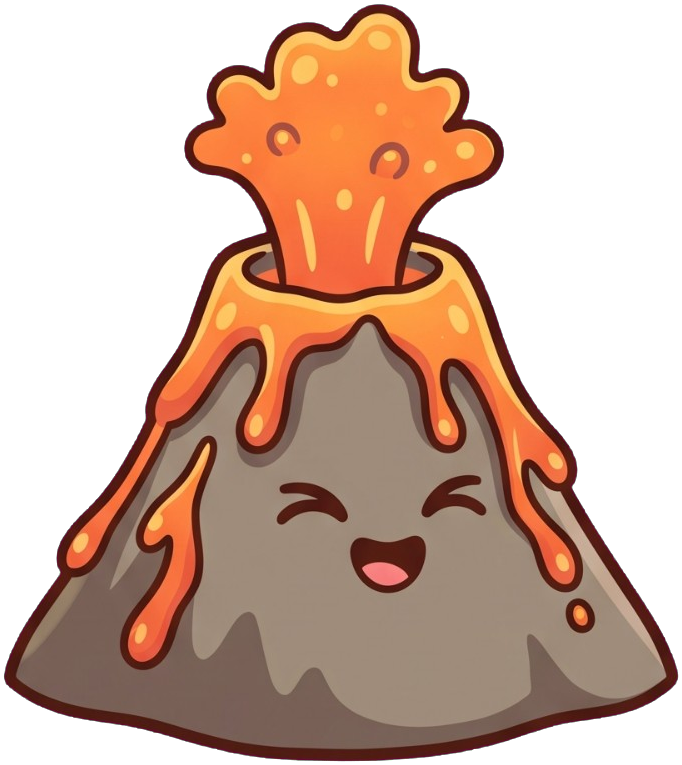
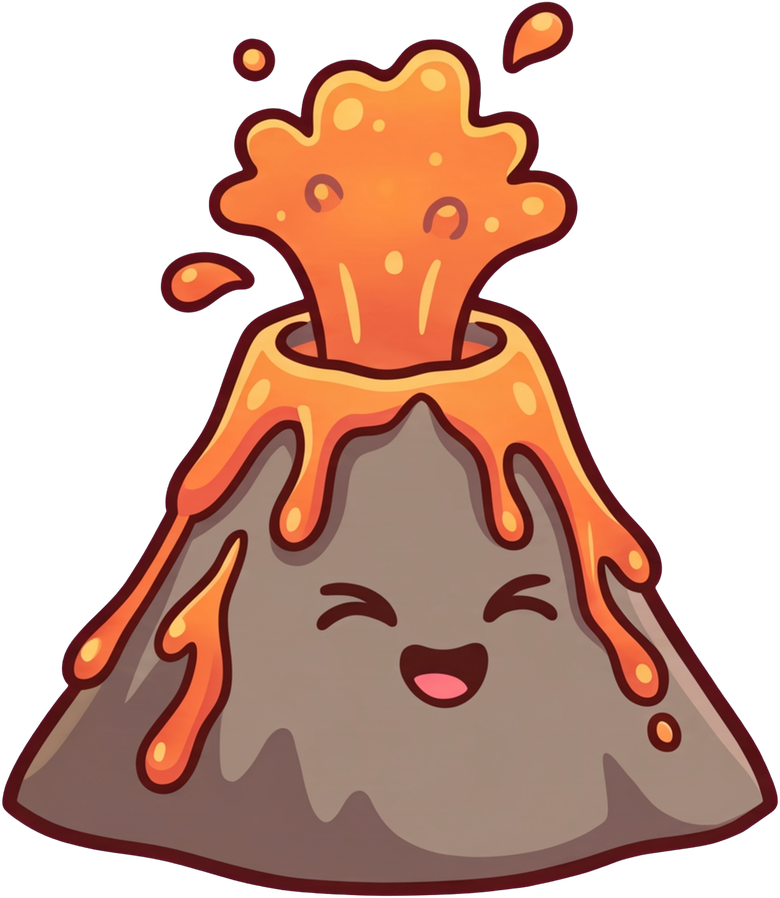
Volcan: new 4K volcano (approved 1K trial, then upscaled with the same design)
game-art: 'essai' (1K trial) and 'upscale' (the approved trial redone at full
resolution, so the design does not change)

diff --git a/.claude/skills/game-art/scripts/art.py b/.claude/skills/game-art/scripts/art.py
@@ -3,6 +3,8 @@
 
     python3 art.py plan                  what to generate, at what size (no API call)
     python3 art.py prompt SHEET          print the prompt (to use by hand in Gemini)
+    python3 art.py essai SHEET           a cheap low-resolution trial (planches/SHEET_essai.png)
+    python3 art.py upscale SHEET         the approved trial redone at full resolution (same design)
     python3 art.py gen SHEET             generate the sheet image (image API)
     python3 art.py animate SHEET         generate a character's video (video API)
     python3 art.py cut SHEET             cut the sheet / video into full-resolution pieces
@@ -262,7 +264,7 @@ def cmd_prompt(project, sheet):
 
 # ---------------------------------------------------------------- API calls
 
-def cmd_gen(project, sheet, yes=False):
+def cmd_gen(project, sheet, yes=False, trial=False):
     import genimage
     a = project.asset(sheet)
     if a["kind"] == "style" and project.reference and project.reference.exists() and not yes:
@@ -274,11 +276,31 @@ def cmd_gen(project, sheet, yes=False):
     refs = [str(project.reference)] if project.reference and project.reference.exists() and a["kind"] != "style" else []
     # extra references for this sheet (e.g. the current image when regenerating it)
     refs += [str(project.root / r) for r in a.get("refs", []) if (project.root / r).exists()]
-    out = project.sheets / f"{sheet}.png"
-    size = best_size(Budget(project.root), p["size"])
+    out = project.sheets / (f"{sheet}_essai.png" if trial else f"{sheet}.png")
+    # trial: smallest size, to check the prompt and the style before paying for
+    # the full resolution (then "upscale" keeps the approved design)
+    size = "1K" if trial else best_size(Budget(project.root), p["size"])
     genimage.generate(str(out), build_prompt(project, a), refs, p["ratio"], size, IMAGE_MODEL,
-                      yes=yes, what=f"{sheet} (planche)", root=project.root)
+                      yes=yes, what=f"{sheet} ({'essai' if trial else 'planche'})", root=project.root)
     print("Vérifiez l'image avant de continuer :", out)
+
+
+def cmd_upscale(project, sheet, yes=False):
+    """The approved trial image, redone at the full resolution: same picture,
+    same design (the trial is sent as the image to reproduce)."""
+    import genimage
+    a = project.asset(sheet)
+    p = plan_sheet(project, a)
+    trial = project.sheets / f"{sheet}_essai.png"
+    if not trial.exists():
+        sys.exit(f"Pas d'essai validé ({trial}) : lancez d'abord « art.py essai {sheet} ».")
+    prompt = ("Reproduce the attached image exactly, in high resolution: the same drawings, same layout, "
+              "same colors, same faces, same details, same outline. Do not change or add anything. "
+              "Keep the perfectly flat magenta (#FF00FF) background.")
+    out = project.sheets / f"{sheet}.png"
+    genimage.generate(str(out), prompt, [str(trial)], p["ratio"], p["size"], IMAGE_MODEL,
+                      yes=yes, what=f"{sheet} (haute résolution)", root=project.root)
+    print("Comparez avec l'essai avant de découper :", trial, out)
 
 
 def cmd_animate(project, sheet, yes=False):
@@ -403,6 +425,10 @@ def main():
         cmd_prompt(project, rest[0])
     elif cmd == "gen":
         cmd_gen(project, rest[0], yes=bool(opts.get("oui")))
+    elif cmd == "essai":
+        cmd_gen(project, rest[0], yes=bool(opts.get("oui")), trial=True)
+    elif cmd == "upscale":
+        cmd_upscale(project, rest[0], yes=bool(opts.get("oui")))
     elif cmd == "animate":
         cmd_animate(project, rest[0], yes=bool(opts.get("oui")))
     elif cmd == "budget":

diff --git a/.claude/skills/game-art/SKILL.md b/.claude/skills/game-art/SKILL.md
@@ -106,6 +106,9 @@ Rules for Claude:
 
 ```
 art.py plan                     # check sizes and sheets
+art.py essai SHEET              # a 1K trial first: show it, the user validates the style
+art.py upscale SHEET            # then the SAME picture at full resolution (a new "gen"
+                                # would be a new random draw, not the approved one)
 art.py gen style                # 1. the style reference -> user approves -> art.json style.reference
 art.py build animals            # 2. each sheet: generate, cut, bake
 art.py gen zina                 # 3. a character: still image first...
